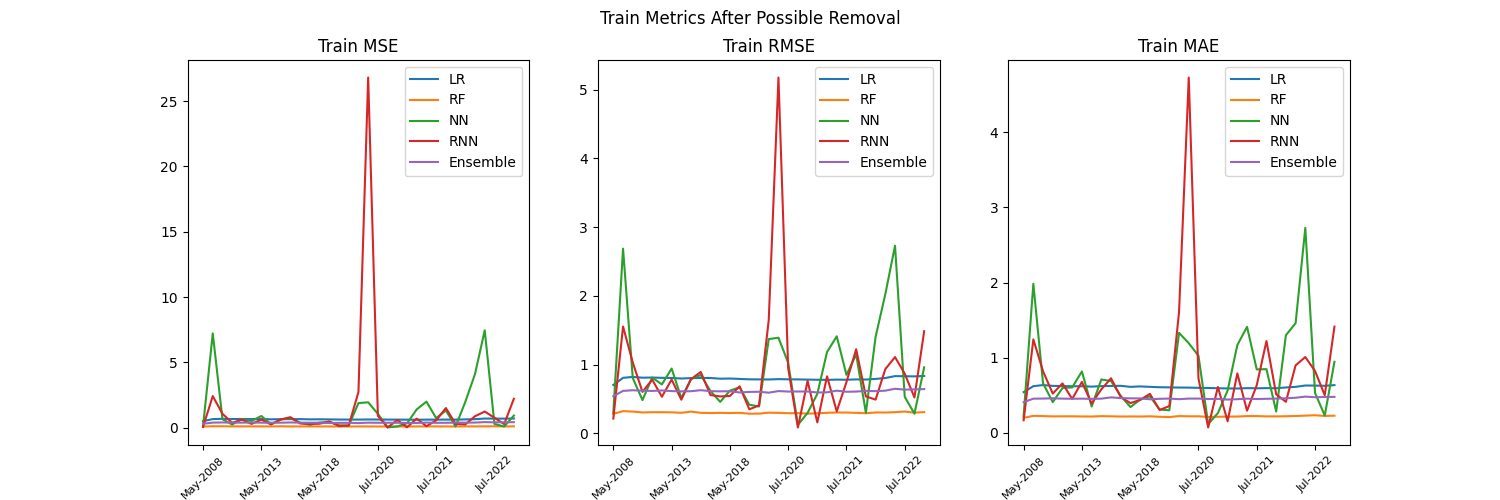
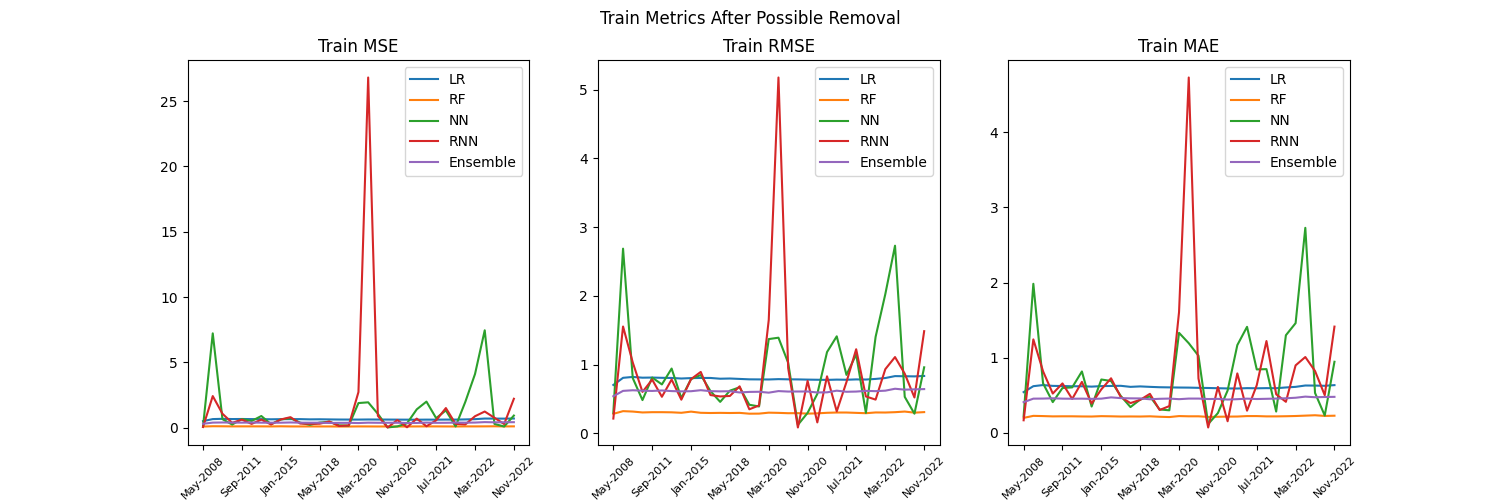
Updated tick frequency on metric plots

diff --git a/generateMetricPlots.py b/generateMetricPlots.py
@@ -59,12 +59,12 @@ def generateNonAvgPlots(df, filename):
     dates = getDates()
     # Change the dates to only being the month and year
     dates = [date.strftime("%b-%Y") for date in dates]
-    axs[0].set_xticks(np.arange(0, len(dates), 6))
-    axs[0].set_xticklabels(dates[::6], rotation=45)
-    axs[1].set_xticks(np.arange(0, len(dates), 6))
-    axs[1].set_xticklabels(dates[::6], rotation=45)
-    axs[2].set_xticks(np.arange(0, len(dates), 6))
-    axs[2].set_xticklabels(dates[::6], rotation=45)
+    axs[0].set_xticks(np.arange(0, len(dates), 4))
+    axs[0].set_xticklabels(dates[::4], rotation=45)
+    axs[1].set_xticks(np.arange(0, len(dates), 4))
+    axs[1].set_xticklabels(dates[::4], rotation=45)
+    axs[2].set_xticks(np.arange(0, len(dates), 4))
+    axs[2].set_xticklabels(dates[::4], rotation=45)
     axs[0].tick_params(axis='x', labelsize=8)
     axs[1].tick_params(axis='x', labelsize=8)
     axs[2].tick_params(axis='x', labelsize=8)
